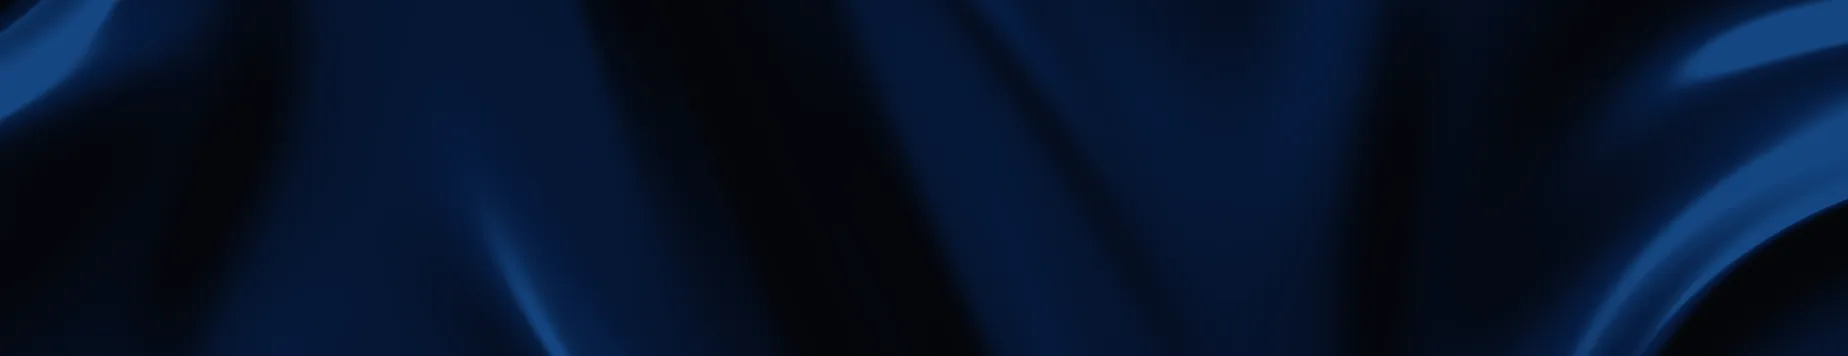
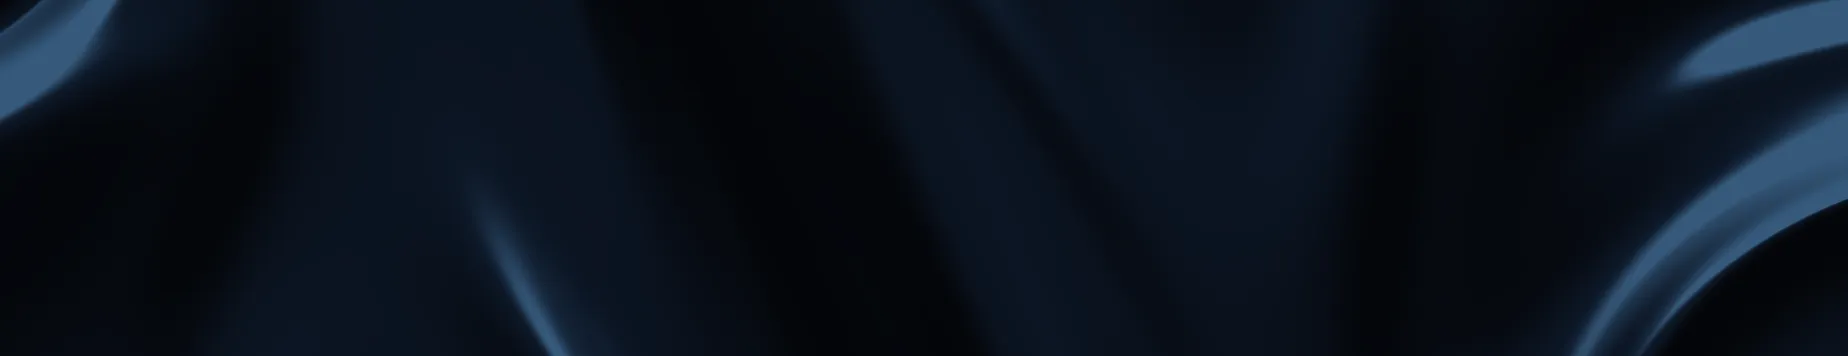
site: colours, buttons and app cards follow the 1.1.0 design
The silk background, its still images and every glow go from royal blue to the app's slate black with ice light. Primary buttons are the app's ice sheet. The signing window is drawn as Kyro's own (what Kyro read, amount in the coin's colour, Cancel and Sign), and the vault, Earn and asset cards use the app's surfaces, ice squares and Unbounded figures.

diff --git a/website/public/style.css b/website/public/style.css
@@ -50,7 +50,7 @@
   --line-3: rgba(150, 205, 255, .3);
   --grid: rgba(170, 210, 250, .05);
   --dot: rgba(170, 210, 250, .15);
-  --blue: 47, 107, 255;
+  --blue: 124, 196, 255;
   --sh-1: 0 1px 2px rgba(0, 0, 0, .35);
   --sh-2: 0 1px 2px rgba(0, 0, 0, .4), 0 6px 14px -8px rgba(0, 0, 0, .6);
   --sh-3: 0 2px 6px rgba(0, 0, 0, .4), 0 12px 24px -12px rgba(0, 0, 0, .8);
@@ -336,6 +336,7 @@ main .wrap > p:last-child:has(> .more) { text-align: center; }
 .dlg-actions { display: grid; grid-template-columns: 1fr 1fr; gap: 8px; margin-top: 4px; }
 .dlg-actions i { display: grid; place-items: center; height: 38px; border: 1px solid #282e36; border-radius: 9px; font-weight: 500; }
 .dlg-actions .on { background: #eef3f8; border-color: #eef3f8; color: #07080a; }
+
 .coin-card { position: relative; padding: 22px; max-width: 420px; width: 100%; font-size: 15px; }
 .coin-card .tok { width: 40px; height: 40px; }
 .coin-card .kw-coin .kw-demo { margin-left: auto; font: 400 10px var(--mono); }
@@ -609,8 +610,9 @@ h3 { font: 600 16.5px/1.35 var(--sans); color: var(--text); letter-spacing: -.01
 
 /* ---------- buttons */
 .btn { display: inline-flex; align-items: center; justify-content: center; gap: 8px; min-height: 40px; padding: 0 16px; border: 1px solid transparent; border-radius: var(--r-sm); font: 550 14.5px/1.2 var(--sans); cursor: pointer; white-space: nowrap; transition: background .15s, color .15s, border-color .15s, box-shadow .15s; }
-.btn-primary { background: #f4f7fa; color: #05070a; box-shadow: var(--sh-1), inset 0 -1px 0 rgba(0, 0, 0, .08); }
-.btn-primary:hover { background: #fff; color: #000; box-shadow: var(--sh-1), 0 0 0 3px rgba(124, 196, 255, .22); }
+/* The app's primary button: a sheet of ice, tinted like the mark's square. */
+.btn-primary { background: linear-gradient(180deg, #e6f3ff 0%, #c2e0fa 100%); color: #061423; box-shadow: inset 0 1px 0 rgba(255, 255, 255, .95), inset 0 -1px 0 rgba(53, 119, 180, .35), 0 10px 30px -12px rgba(124, 196, 255, .85); }
+.btn-primary:hover { background: linear-gradient(180deg, #f2f9ff 0%, #d2e9fc 100%); color: #061423; box-shadow: inset 0 1px 0 #fff, inset 0 -1px 0 rgba(53, 119, 180, .35), 0 12px 36px -10px rgba(124, 196, 255, 1); }
 .btn-ghost { background: rgba(10, 14, 20, .7); color: var(--text); border-color: var(--line-2); box-shadow: var(--sh-1); }
 .btn-ghost:hover { background: rgba(255, 255, 255, .07); color: #fff; border-color: var(--line-3); }
 .btn-sm { min-height: 32px; padding: 0 11px; font-size: 13.5px; }
@@ -1099,3 +1101,45 @@ body { position: relative; max-width: 100%; }
 .badge-dot { width: 6px; height: 6px; border-radius: 50%; background: var(--ice); box-shadow: 0 0 8px rgba(124, 196, 255, .9); }
 .badge-arrow { transition: transform .3s var(--out); }
 .badge:hover .badge-arrow { transform: translateX(3px); }
+
+/* ---------- 1.1.0 look: the app's own surfaces, ice-sheet buttons, coin colours, Unbounded figures */
+.kw-card, .dlg { border: 1px solid #1b1f25; border-radius: 18px; background: linear-gradient(180deg, #0e1114, #090a0c 70%); box-shadow: 0 30px 60px -30px rgba(0, 0, 0, .9), inset 0 1px 0 rgba(170, 220, 255, .06); }
+.kw-b.on, .dlg-actions .on, .kw-review, .kw-earn .kw-b { border: 0; background: linear-gradient(180deg, #e6f3ff 0%, #c2e0fa 100%); color: #061423; box-shadow: inset 0 1px 0 rgba(255, 255, 255, .95), inset 0 -1px 0 rgba(53, 119, 180, .35), 0 10px 26px -14px rgba(124, 196, 255, .85); font-weight: 600; }
+.kw-b { border-color: transparent; background: #13171b; }
+.kw-sq { flex-shrink: 0; width: .55em; height: .55em; border-radius: 1px; background: var(--ice); box-shadow: 0 0 .8em rgba(124, 196, 255, .7); }
+.kw-tabs b { box-shadow: none; display: inline-flex; align-items: center; gap: .45em; }
+.kw-tabs b::before { content: ''; width: .42em; height: .42em; border-radius: 1px; background: var(--ice); box-shadow: 0 0 .6em rgba(124, 196, 255, .7); }
+.kw-val b, .kw-apy b, .kw-total, .kw-field strong { font-family: var(--display); font-weight: 500; letter-spacing: -.03em; }
+.kw-apy b { color: #fff; font-size: 1.45em; }
+.kw-ratebar i { background: linear-gradient(90deg, rgba(124, 196, 255, .35), var(--ice)); }
+.kw-vault { padding-bottom: 12px; border-bottom: 1px solid #1b1f25; }
+.kw-vault .kw-sq { width: .7em; height: .7em; margin: 0 .25em; }
+.kw-vault em { display: inline-flex; align-items: center; gap: .45em; padding: 0; border: 0; color: var(--up); }
+.kw-vault em::before { content: ''; width: .5em; height: .5em; border-radius: 1px; background: var(--up); }
+.kw-card-narrow .kw-kv { padding-bottom: 12px; border-bottom: 1px solid #14171b; }
+.kw-card-narrow .kw-kv:last-child { padding-bottom: 0; border-bottom: 0; }
+.kw-bar { height: .18em; background: #1a1e24; }
+.kw-bar i { background: linear-gradient(90deg, rgba(124, 196, 255, .3), var(--ice)); box-shadow: 0 0 .8em rgba(124, 196, 255, .6); }
+.dot { border-radius: 1px; }
+/* The signing window, as Kyro draws it (confirm_window.rs). */
+.dlg { --c: #8fa4ff; max-width: 420px; }
+.dlg-coin { color: var(--c) !important; }
+.dlg-bar { position: relative; padding: 12px 16px; background: transparent; border-bottom: 1px solid #1b1f25; color: var(--text-2); font-size: 13px; }
+.dlg-x { margin-left: auto; color: var(--mute); }
+.dlg-body { gap: 0; padding: 18px 22px 22px; }
+.dlg .dlg-acct { margin: 0 0 14px; color: var(--mute); font-size: 12.5px; }
+.dlg .dlg-read { display: flex; align-items: center; gap: 9px; margin: 0 0 14px; color: var(--mute); font-size: 11.5px; letter-spacing: .14em; text-transform: uppercase; }
+.dlg-read i { width: 6px; height: 6px; border-radius: 1px; background: var(--ice); box-shadow: 0 0 8px rgba(124, 196, 255, .8); }
+.dlg .dlg-kind { margin: 0; color: var(--text); font-size: 14px; }
+.dlg-amount { display: flex; align-items: baseline; gap: .35em; margin: 2px 0 14px; color: var(--c, #fff); }
+.dlg-amount strong { font: 500 44px/1.1 var(--display); letter-spacing: -.035em; color: var(--c, #fff); text-shadow: 0 0 28px color-mix(in srgb, var(--c, #fff) 45%, transparent); }
+.dlg-amount span { font: 500 17px var(--display); }
+.dlg .dlg-k { margin: 0 0 6px; color: var(--mute); font-size: 12.5px; }
+.dlg .dlg-addr { margin: 0 0 16px; color: var(--mute); font-size: 13px; letter-spacing: .02em; word-spacing: .15em; white-space: normal; }
+.dlg-addr b { color: var(--text); font-weight: 600; }
+.dlg-rows { display: flex; flex-direction: column; border-top: 1px solid #1b1f25; }
+.dlg-rows .kw-kv { padding: 12px 0; border-bottom: 1px solid #1b1f25; font-size: 13.5px; }
+.dlg-rows .kw-kv span { color: var(--mute); }
+.dlg-actions { grid-template-columns: 1fr 1.3fr; gap: 10px; margin-top: 22px; }
+.dlg-actions i { height: 44px; border-radius: 12px; border-color: #222730; background: #101317; font-weight: 600; }
+@media (max-width: 480px) { .dlg-amount strong { font-size: 36px; } .dlg-body { padding: 16px 18px 18px; } }

diff --git a/website/public/index.html b/website/public/index.html
@@ -420,15 +420,21 @@
           <a class="more" href="/security/">Nothing is signed without you</a></div>
         </div>
         <div class="feature-visual" data-reveal>
-  <div class="dlg" role="img" aria-label="Kyro confirmation window: amount, recipient, network and network fee, with Cancel and Confirm buttons."><div aria-hidden="true">
-    <div class="dlg-bar"><img src="/img/kyro-mark-dark.svg" width="14" height="14" alt="">Kyro · Confirm transaction</div>
+  <div class="dlg" role="img" aria-label="Kyro signing window: what Kyro read in the transaction (amount, recipient, network fee), with Cancel and Sign buttons."><div aria-hidden="true">
+    <div class="dlg-bar"><img src="/img/kyro-mark-dark.svg" width="14" height="14" alt="">Kyro · Confirm the transaction<i class="dlg-x">✕</i></div>
     <div class="dlg-body">
-      <div class="dlg-amount"><img class="tok" src="/img/coins/eth.svg" width="32" height="32" alt="" decoding="async"><strong>1.2345 ETH</strong></div>
-      <div class="kw-kv"><span>To</span><b class="mono">0x1234…cdef</b></div>
-      <div class="kw-kv"><span>Network</span><b>Ethereum</b></div>
-      <div class="kw-kv"><span>Network fee</span><b>0.00123 ETH</b></div>
-      <p>Decoded by the Rust core. Nothing is sent until you confirm.</p>
-      <div class="dlg-actions"><i>Cancel</i><i class="on">Confirm</i></div>
+      <p class="dlg-acct">Signing account: “Main” · m/44'/60'/0'/0/0</p>
+      <p class="dlg-read"><i></i>What Kyro read in the transaction</p>
+      <p class="dlg-kind">Ethereum send</p>
+      <div class="dlg-amount"><strong>1.2345</strong><span>ETH</span></div>
+      <p class="dlg-k">To</p>
+      <p class="dlg-addr mono"><b>0x1234</b> 5678 9abc def0 1234 5678 9abc def0 <b>cdef</b></p>
+      <div class="dlg-rows">
+        <div class="kw-kv"><span>Amount</span><b class="dlg-coin">1.2345 ETH</b></div>
+        <div class="kw-kv"><span>Network</span><b>Ethereum</b></div>
+        <div class="kw-kv"><span>Network fee</span><b>0.00123 ETH</b></div>
+      </div>
+      <div class="dlg-actions"><i>Cancel</i><i class="on">Sign</i></div>
     </div>
   </div></div></div>
       </div>
@@ -450,7 +456,7 @@
             </div>
             
   <div class="kw-card kw-card-narrow" role="img" aria-label="Kyro vault panel: keys encrypted on this device, auto-lock timer, no unlimited approvals, Tor on."><div aria-hidden="true">
-    <div class="kw-vault"><svg class="ic" viewBox="0 0 24 24" fill="none" stroke="currentColor" stroke-width="1.7" stroke-linecap="round" stroke-linejoin="round" aria-hidden="true"><path d="M12 3l8 3v6c0 4.5-3.2 7.8-8 9-4.8-1.2-8-4.5-8-9V6l8-3z"/></svg><span><b>Vault</b><small>Keys encrypted on this device</small></span><em>Unlocked</em></div>
+    <div class="kw-vault"><i class="kw-sq"></i><span><b>Vault</b><small>Keys encrypted on this device</small></span><em>Unlocked</em></div>
     <div class="kw-kv"><span>Auto-lock</span><b>14:54</b></div>
     <div class="kw-bar"><i></i></div>
     <div class="kw-kv"><span>Hardware wallet</span><b class="ice">Add</b></div>

diff --git a/website/public/security/index.html b/website/public/security/index.html
@@ -139,15 +139,21 @@
         </div>
         <div class="feature-visual" data-reveal>
           
-  <div class="dlg" role="img" aria-label="Kyro confirmation window: amount, recipient, network and network fee, with Cancel and Confirm buttons."><div aria-hidden="true">
-    <div class="dlg-bar"><img src="/img/kyro-mark-dark.svg" width="14" height="14" alt="">Kyro · Confirm transaction</div>
+  <div class="dlg" role="img" aria-label="Kyro signing window: what Kyro read in the transaction (amount, recipient, network fee), with Cancel and Sign buttons."><div aria-hidden="true">
+    <div class="dlg-bar"><img src="/img/kyro-mark-dark.svg" width="14" height="14" alt="">Kyro · Confirm the transaction<i class="dlg-x">✕</i></div>
     <div class="dlg-body">
-      <div class="dlg-amount"><img class="tok" src="/img/coins/eth.svg" width="32" height="32" alt="" decoding="async"><strong>1.2345 ETH</strong></div>
-      <div class="kw-kv"><span>To</span><b class="mono">0x1234…cdef</b></div>
-      <div class="kw-kv"><span>Network</span><b>Ethereum</b></div>
-      <div class="kw-kv"><span>Network fee</span><b>0.00123 ETH</b></div>
-      <p>Decoded by the Rust core. Nothing is sent until you confirm.</p>
-      <div class="dlg-actions"><i>Cancel</i><i class="on">Confirm</i></div>
+      <p class="dlg-acct">Signing account: “Main” · m/44'/60'/0'/0/0</p>
+      <p class="dlg-read"><i></i>What Kyro read in the transaction</p>
+      <p class="dlg-kind">Ethereum send</p>
+      <div class="dlg-amount"><strong>1.2345</strong><span>ETH</span></div>
+      <p class="dlg-k">To</p>
+      <p class="dlg-addr mono"><b>0x1234</b> 5678 9abc def0 1234 5678 9abc def0 <b>cdef</b></p>
+      <div class="dlg-rows">
+        <div class="kw-kv"><span>Amount</span><b class="dlg-coin">1.2345 ETH</b></div>
+        <div class="kw-kv"><span>Network</span><b>Ethereum</b></div>
+        <div class="kw-kv"><span>Network fee</span><b>0.00123 ETH</b></div>
+      </div>
+      <div class="dlg-actions"><i>Cancel</i><i class="on">Sign</i></div>
     </div>
   </div></div>
         </div>
@@ -171,7 +177,7 @@
         <div class="feature-visual" data-reveal>
           
   <div class="kw-card kw-card-narrow" role="img" aria-label="Kyro vault panel: keys encrypted on this device, auto-lock timer, no unlimited approvals, Tor on."><div aria-hidden="true">
-    <div class="kw-vault"><svg class="ic" viewBox="0 0 24 24" fill="none" stroke="currentColor" stroke-width="1.7" stroke-linecap="round" stroke-linejoin="round" aria-hidden="true"><path d="M12 3l8 3v6c0 4.5-3.2 7.8-8 9-4.8-1.2-8-4.5-8-9V6l8-3z"/></svg><span><b>Vault</b><small>Keys encrypted on this device</small></span><em>Unlocked</em></div>
+    <div class="kw-vault"><i class="kw-sq"></i><span><b>Vault</b><small>Keys encrypted on this device</small></span><em>Unlocked</em></div>
     <div class="kw-kv"><span>Auto-lock</span><b>14:54</b></div>
     <div class="kw-bar"><i></i></div>
     <div class="kw-kv"><span>Hardware wallet</span><b class="ice">Add</b></div>

diff --git a/website/public/guides/how-to-spot-address-poisoning/index.html b/website/public/guides/how-to-spot-address-poisoning/index.html
@@ -103,15 +103,21 @@
       <h2>What Kyro does</h2>
       <ul class="checks"><li>A blocking red alert appears if a recipient shares the first 4 and last 4 characters with a known address without being identical.</li><li>Known addresses are your address book, your accounts and sends signed by this Kyro. The server’s history is never trusted.</li><li>Addresses are displayed in blocks, and anything outside the address book is marked “Unknown address”.</li><li>After you paste, Kyro watches the field for clipboard tampering.</li><li>The native confirmation window shows the recipient Rust decoded.</li></ul>
       
-  <div class="dlg" role="img" aria-label="Kyro confirmation window: amount, recipient, network and network fee, with Cancel and Confirm buttons."><div aria-hidden="true">
-    <div class="dlg-bar"><img src="/img/kyro-mark-dark.svg" width="14" height="14" alt="">Kyro · Confirm transaction</div>
+  <div class="dlg" role="img" aria-label="Kyro signing window: what Kyro read in the transaction (amount, recipient, network fee), with Cancel and Sign buttons."><div aria-hidden="true">
+    <div class="dlg-bar"><img src="/img/kyro-mark-dark.svg" width="14" height="14" alt="">Kyro · Confirm the transaction<i class="dlg-x">✕</i></div>
     <div class="dlg-body">
-      <div class="dlg-amount"><img class="tok" src="/img/coins/eth.svg" width="32" height="32" alt="" decoding="async"><strong>1.2345 ETH</strong></div>
-      <div class="kw-kv"><span>To</span><b class="mono">0x1234…cdef</b></div>
-      <div class="kw-kv"><span>Network</span><b>Ethereum</b></div>
-      <div class="kw-kv"><span>Network fee</span><b>0.00123 ETH</b></div>
-      <p>Decoded by the Rust core. Nothing is sent until you confirm.</p>
-      <div class="dlg-actions"><i>Cancel</i><i class="on">Confirm</i></div>
+      <p class="dlg-acct">Signing account: “Main” · m/44'/60'/0'/0/0</p>
+      <p class="dlg-read"><i></i>What Kyro read in the transaction</p>
+      <p class="dlg-kind">Ethereum send</p>
+      <div class="dlg-amount"><strong>1.2345</strong><span>ETH</span></div>
+      <p class="dlg-k">To</p>
+      <p class="dlg-addr mono"><b>0x1234</b> 5678 9abc def0 1234 5678 9abc def0 <b>cdef</b></p>
+      <div class="dlg-rows">
+        <div class="kw-kv"><span>Amount</span><b class="dlg-coin">1.2345 ETH</b></div>
+        <div class="kw-kv"><span>Network</span><b>Ethereum</b></div>
+        <div class="kw-kv"><span>Network fee</span><b>0.00123 ETH</b></div>
+      </div>
+      <div class="dlg-actions"><i>Cancel</i><i class="on">Sign</i></div>
     </div>
   </div></div>
       <h2>What it cannot catch</h2>

diff --git a/website/public/guides/stake-sol/index.html b/website/public/guides/stake-sol/index.html
@@ -102,15 +102,21 @@
       <h2>Stake</h2>
       <ol class="os-steps"><li>Open <b>Earn</b> and choose <b>Solana</b>.</li><li>Choose <b>Stake SOL</b>. Kyro creates a stake account in your name, and only you can manage or withdraw it.</li><li>Pick a validator. Names are declared by the validators themselves and not verified, so look at commission and status too.</li><li>Enter the amount and review.</li><li>Confirm with your password in the system window.</li></ol>
       
-  <div class="dlg" role="img" aria-label="Kyro confirmation window: amount, recipient, network and network fee, with Cancel and Confirm buttons."><div aria-hidden="true">
-    <div class="dlg-bar"><img src="/img/kyro-mark-dark.svg" width="14" height="14" alt="">Kyro · Confirm transaction</div>
+  <div class="dlg" role="img" aria-label="Kyro signing window: what Kyro read in the transaction (amount, recipient, network fee), with Cancel and Sign buttons."><div aria-hidden="true">
+    <div class="dlg-bar"><img src="/img/kyro-mark-dark.svg" width="14" height="14" alt="">Kyro · Confirm the transaction<i class="dlg-x">✕</i></div>
     <div class="dlg-body">
-      <div class="dlg-amount"><img class="tok" src="/img/coins/eth.svg" width="32" height="32" alt="" decoding="async"><strong>1.2345 ETH</strong></div>
-      <div class="kw-kv"><span>To</span><b class="mono">0x1234…cdef</b></div>
-      <div class="kw-kv"><span>Network</span><b>Ethereum</b></div>
-      <div class="kw-kv"><span>Network fee</span><b>0.00123 ETH</b></div>
-      <p>Decoded by the Rust core. Nothing is sent until you confirm.</p>
-      <div class="dlg-actions"><i>Cancel</i><i class="on">Confirm</i></div>
+      <p class="dlg-acct">Signing account: “Main” · m/44'/60'/0'/0/0</p>
+      <p class="dlg-read"><i></i>What Kyro read in the transaction</p>
+      <p class="dlg-kind">Ethereum send</p>
+      <div class="dlg-amount"><strong>1.2345</strong><span>ETH</span></div>
+      <p class="dlg-k">To</p>
+      <p class="dlg-addr mono"><b>0x1234</b> 5678 9abc def0 1234 5678 9abc def0 <b>cdef</b></p>
+      <div class="dlg-rows">
+        <div class="kw-kv"><span>Amount</span><b class="dlg-coin">1.2345 ETH</b></div>
+        <div class="kw-kv"><span>Network</span><b>Ethereum</b></div>
+        <div class="kw-kv"><span>Network fee</span><b>0.00123 ETH</b></div>
+      </div>
+      <div class="dlg-actions"><i>Cancel</i><i class="on">Sign</i></div>
     </div>
   </div></div>
       <p>A commission above 10%, or a delinquent validator that has stopped voting, gets a second, reinforced confirmation.</p>

diff --git a/website/public/hardware-wallets/index.html b/website/public/hardware-wallets/index.html
@@ -169,15 +169,21 @@
           <ul class="checks"><li>Before signing, Kyro re-reads the device’s keys and compares them with the registered account.</li><li>Receive addresses can be shown on the device, and any difference is a blocking error.</li><li>After signing, Kyro verifies the signature against the expected key before broadcasting.</li><li>Unplugging or a timeout abandons the operation cleanly. Nothing is left half-done.</li></ul></div>
         </div>
         <div class="feature-visual" data-reveal>
-  <div class="dlg" role="img" aria-label="Kyro confirmation window: amount, recipient, network and network fee, with Cancel and Confirm buttons."><div aria-hidden="true">
-    <div class="dlg-bar"><img src="/img/kyro-mark-dark.svg" width="14" height="14" alt="">Kyro · Confirm transaction</div>
+  <div class="dlg" role="img" aria-label="Kyro signing window: what Kyro read in the transaction (amount, recipient, network fee), with Cancel and Sign buttons."><div aria-hidden="true">
+    <div class="dlg-bar"><img src="/img/kyro-mark-dark.svg" width="14" height="14" alt="">Kyro · Confirm the transaction<i class="dlg-x">✕</i></div>
     <div class="dlg-body">
-      <div class="dlg-amount"><img class="tok" src="/img/coins/eth.svg" width="32" height="32" alt="" decoding="async"><strong>1.2345 ETH</strong></div>
-      <div class="kw-kv"><span>To</span><b class="mono">0x1234…cdef</b></div>
-      <div class="kw-kv"><span>Network</span><b>Ethereum</b></div>
-      <div class="kw-kv"><span>Network fee</span><b>0.00123 ETH</b></div>
-      <p>Decoded by the Rust core. Nothing is sent until you confirm.</p>
-      <div class="dlg-actions"><i>Cancel</i><i class="on">Confirm</i></div>
+      <p class="dlg-acct">Signing account: “Main” · m/44'/60'/0'/0/0</p>
+      <p class="dlg-read"><i></i>What Kyro read in the transaction</p>
+      <p class="dlg-kind">Ethereum send</p>
+      <div class="dlg-amount"><strong>1.2345</strong><span>ETH</span></div>
+      <p class="dlg-k">To</p>
+      <p class="dlg-addr mono"><b>0x1234</b> 5678 9abc def0 1234 5678 9abc def0 <b>cdef</b></p>
+      <div class="dlg-rows">
+        <div class="kw-kv"><span>Amount</span><b class="dlg-coin">1.2345 ETH</b></div>
+        <div class="kw-kv"><span>Network</span><b>Ethereum</b></div>
+        <div class="kw-kv"><span>Network fee</span><b>0.00123 ETH</b></div>
+      </div>
+      <div class="dlg-actions"><i>Cancel</i><i class="on">Sign</i></div>
     </div>
   </div></div></div>
       </div>

diff --git a/website/public/guides/connect-a-ledger/index.html b/website/public/guides/connect-a-ledger/index.html
@@ -107,15 +107,21 @@
       <h2>Sign</h2>
       <ol class="os-steps"><li>Start a send as usual.</li><li>Read the decoded transaction in Kyro’s system window.</li><li>Read it again on the Ledger and approve there.</li><li>Kyro verifies the signature before it broadcasts.</li></ol>
       
-  <div class="dlg" role="img" aria-label="Kyro confirmation window: amount, recipient, network and network fee, with Cancel and Confirm buttons."><div aria-hidden="true">
-    <div class="dlg-bar"><img src="/img/kyro-mark-dark.svg" width="14" height="14" alt="">Kyro · Confirm transaction</div>
+  <div class="dlg" role="img" aria-label="Kyro signing window: what Kyro read in the transaction (amount, recipient, network fee), with Cancel and Sign buttons."><div aria-hidden="true">
+    <div class="dlg-bar"><img src="/img/kyro-mark-dark.svg" width="14" height="14" alt="">Kyro · Confirm the transaction<i class="dlg-x">✕</i></div>
     <div class="dlg-body">
-      <div class="dlg-amount"><img class="tok" src="/img/coins/eth.svg" width="32" height="32" alt="" decoding="async"><strong>1.2345 ETH</strong></div>
-      <div class="kw-kv"><span>To</span><b class="mono">0x1234…cdef</b></div>
-      <div class="kw-kv"><span>Network</span><b>Ethereum</b></div>
-      <div class="kw-kv"><span>Network fee</span><b>0.00123 ETH</b></div>
-      <p>Decoded by the Rust core. Nothing is sent until you confirm.</p>
-      <div class="dlg-actions"><i>Cancel</i><i class="on">Confirm</i></div>
+      <p class="dlg-acct">Signing account: “Main” · m/44'/60'/0'/0/0</p>
+      <p class="dlg-read"><i></i>What Kyro read in the transaction</p>
+      <p class="dlg-kind">Ethereum send</p>
+      <div class="dlg-amount"><strong>1.2345</strong><span>ETH</span></div>
+      <p class="dlg-k">To</p>
+      <p class="dlg-addr mono"><b>0x1234</b> 5678 9abc def0 1234 5678 9abc def0 <b>cdef</b></p>
+      <div class="dlg-rows">
+        <div class="kw-kv"><span>Amount</span><b class="dlg-coin">1.2345 ETH</b></div>
+        <div class="kw-kv"><span>Network</span><b>Ethereum</b></div>
+        <div class="kw-kv"><span>Network fee</span><b>0.00123 ETH</b></div>
+      </div>
+      <div class="dlg-actions"><i>Cancel</i><i class="on">Sign</i></div>
     </div>
   </div></div>
       <h2>Blind signing</h2>

diff --git a/website/public/earn/index.html b/website/public/earn/index.html
@@ -212,15 +212,21 @@
           <p><a href="/guides/stake-sol/">Step by step: stake SOL</a></p></div>
         </div>
         <div class="feature-visual" data-reveal>
-  <div class="dlg" role="img" aria-label="Kyro confirmation window: amount, recipient, network and network fee, with Cancel and Confirm buttons."><div aria-hidden="true">
-    <div class="dlg-bar"><img src="/img/kyro-mark-dark.svg" width="14" height="14" alt="">Kyro · Confirm transaction</div>
+  <div class="dlg" role="img" aria-label="Kyro signing window: what Kyro read in the transaction (amount, recipient, network fee), with Cancel and Sign buttons."><div aria-hidden="true">
+    <div class="dlg-bar"><img src="/img/kyro-mark-dark.svg" width="14" height="14" alt="">Kyro · Confirm the transaction<i class="dlg-x">✕</i></div>
     <div class="dlg-body">
-      <div class="dlg-amount"><img class="tok" src="/img/coins/eth.svg" width="32" height="32" alt="" decoding="async"><strong>1.2345 ETH</strong></div>
-      <div class="kw-kv"><span>To</span><b class="mono">0x1234…cdef</b></div>
-      <div class="kw-kv"><span>Network</span><b>Ethereum</b></div>
-      <div class="kw-kv"><span>Network fee</span><b>0.00123 ETH</b></div>
-      <p>Decoded by the Rust core. Nothing is sent until you confirm.</p>
-      <div class="dlg-actions"><i>Cancel</i><i class="on">Confirm</i></div>
+      <p class="dlg-acct">Signing account: “Main” · m/44'/60'/0'/0/0</p>
+      <p class="dlg-read"><i></i>What Kyro read in the transaction</p>
+      <p class="dlg-kind">Ethereum send</p>
+      <div class="dlg-amount"><strong>1.2345</strong><span>ETH</span></div>
+      <p class="dlg-k">To</p>
+      <p class="dlg-addr mono"><b>0x1234</b> 5678 9abc def0 1234 5678 9abc def0 <b>cdef</b></p>
+      <div class="dlg-rows">
+        <div class="kw-kv"><span>Amount</span><b class="dlg-coin">1.2345 ETH</b></div>
+        <div class="kw-kv"><span>Network</span><b>Ethereum</b></div>
+        <div class="kw-kv"><span>Network fee</span><b>0.00123 ETH</b></div>
+      </div>
+      <div class="dlg-actions"><i>Cancel</i><i class="on">Sign</i></div>
     </div>
   </div></div></div>
       </div>

diff --git a/website/public/swap/index.html b/website/public/swap/index.html
@@ -155,15 +155,21 @@
           <p><a href="/fees/">Fee table and calculator</a></p></div>
         </div>
         <div class="feature-visual" data-reveal>
-  <div class="dlg" role="img" aria-label="Kyro confirmation window: amount, recipient, network and network fee, with Cancel and Confirm buttons."><div aria-hidden="true">
-    <div class="dlg-bar"><img src="/img/kyro-mark-dark.svg" width="14" height="14" alt="">Kyro · Confirm transaction</div>
+  <div class="dlg" role="img" aria-label="Kyro signing window: what Kyro read in the transaction (amount, recipient, network fee), with Cancel and Sign buttons."><div aria-hidden="true">
+    <div class="dlg-bar"><img src="/img/kyro-mark-dark.svg" width="14" height="14" alt="">Kyro · Confirm the transaction<i class="dlg-x">✕</i></div>
     <div class="dlg-body">
-      <div class="dlg-amount"><img class="tok" src="/img/coins/eth.svg" width="32" height="32" alt="" decoding="async"><strong>1.2345 ETH</strong></div>
-      <div class="kw-kv"><span>To</span><b class="mono">0x1234…cdef</b></div>
-      <div class="kw-kv"><span>Network</span><b>Ethereum</b></div>
-      <div class="kw-kv"><span>Network fee</span><b>0.00123 ETH</b></div>
-      <p>Decoded by the Rust core. Nothing is sent until you confirm.</p>
-      <div class="dlg-actions"><i>Cancel</i><i class="on">Confirm</i></div>
+      <p class="dlg-acct">Signing account: “Main” · m/44'/60'/0'/0/0</p>
+      <p class="dlg-read"><i></i>What Kyro read in the transaction</p>
+      <p class="dlg-kind">Ethereum send</p>
+      <div class="dlg-amount"><strong>1.2345</strong><span>ETH</span></div>
+      <p class="dlg-k">To</p>
+      <p class="dlg-addr mono"><b>0x1234</b> 5678 9abc def0 1234 5678 9abc def0 <b>cdef</b></p>
+      <div class="dlg-rows">
+        <div class="kw-kv"><span>Amount</span><b class="dlg-coin">1.2345 ETH</b></div>
+        <div class="kw-kv"><span>Network</span><b>Ethereum</b></div>
+        <div class="kw-kv"><span>Network fee</span><b>0.00123 ETH</b></div>
+      </div>
+      <div class="dlg-actions"><i>Cancel</i><i class="on">Sign</i></div>
     </div>
   </div></div></div>
       </div>

diff --git a/website/public/features/index.html b/website/public/features/index.html
@@ -304,15 +304,21 @@
           </ul></div>
         </div>
         <div class="feature-visual">
-  <div class="dlg" role="img" aria-label="Kyro confirmation window: amount, recipient, network and network fee, with Cancel and Confirm buttons."><div aria-hidden="true">
-    <div class="dlg-bar"><img src="/img/kyro-mark-dark.svg" width="14" height="14" alt="">Kyro · Confirm transaction</div>
+  <div class="dlg" role="img" aria-label="Kyro signing window: what Kyro read in the transaction (amount, recipient, network fee), with Cancel and Sign buttons."><div aria-hidden="true">
+    <div class="dlg-bar"><img src="/img/kyro-mark-dark.svg" width="14" height="14" alt="">Kyro · Confirm the transaction<i class="dlg-x">✕</i></div>
     <div class="dlg-body">
-      <div class="dlg-amount"><img class="tok" src="/img/coins/eth.svg" width="32" height="32" alt="" decoding="async"><strong>1.2345 ETH</strong></div>
-      <div class="kw-kv"><span>To</span><b class="mono">0x1234…cdef</b></div>
-      <div class="kw-kv"><span>Network</span><b>Ethereum</b></div>
-      <div class="kw-kv"><span>Network fee</span><b>0.00123 ETH</b></div>
-      <p>Decoded by the Rust core. Nothing is sent until you confirm.</p>
-      <div class="dlg-actions"><i>Cancel</i><i class="on">Confirm</i></div>
+      <p class="dlg-acct">Signing account: “Main” · m/44'/60'/0'/0/0</p>
+      <p class="dlg-read"><i></i>What Kyro read in the transaction</p>
+      <p class="dlg-kind">Ethereum send</p>
+      <div class="dlg-amount"><strong>1.2345</strong><span>ETH</span></div>
+      <p class="dlg-k">To</p>
+      <p class="dlg-addr mono"><b>0x1234</b> 5678 9abc def0 1234 5678 9abc def0 <b>cdef</b></p>
+      <div class="dlg-rows">
+        <div class="kw-kv"><span>Amount</span><b class="dlg-coin">1.2345 ETH</b></div>
+        <div class="kw-kv"><span>Network</span><b>Ethereum</b></div>
+        <div class="kw-kv"><span>Network fee</span><b>0.00123 ETH</b></div>
+      </div>
+      <div class="dlg-actions"><i>Cancel</i><i class="on">Sign</i></div>
     </div>
   </div></div></div>
       </div>

diff --git a/website/public/guides/first-steps-with-kyro/index.html b/website/public/guides/first-steps-with-kyro/index.html
@@ -134,7 +134,7 @@
       <p>Portfolio shows your total and your assets. Swap, Earn and History sit in the side rail. Ctrl K searches assets and addresses. The vault panel shows Tor, auto-lock and whether any unlimited approval is active.</p>
       
   <div class="kw-card kw-card-narrow" role="img" aria-label="Kyro vault panel: keys encrypted on this device, auto-lock timer, no unlimited approvals, Tor on."><div aria-hidden="true">
-    <div class="kw-vault"><svg class="ic" viewBox="0 0 24 24" fill="none" stroke="currentColor" stroke-width="1.7" stroke-linecap="round" stroke-linejoin="round" aria-hidden="true"><path d="M12 3l8 3v6c0 4.5-3.2 7.8-8 9-4.8-1.2-8-4.5-8-9V6l8-3z"/></svg><span><b>Vault</b><small>Keys encrypted on this device</small></span><em>Unlocked</em></div>
+    <div class="kw-vault"><i class="kw-sq"></i><span><b>Vault</b><small>Keys encrypted on this device</small></span><em>Unlocked</em></div>
     <div class="kw-kv"><span>Auto-lock</span><b>14:54</b></div>
     <div class="kw-bar"><i></i></div>
     <div class="kw-kv"><span>Hardware wallet</span><b class="ice">Add</b></div>

diff --git a/website/public/wallets/linux/index.html b/website/public/wallets/linux/index.html
@@ -95,7 +95,7 @@
           </div>
           
   <div class="kw-card kw-card-narrow" role="img" aria-label="Kyro vault panel: keys encrypted on this device, auto-lock timer, no unlimited approvals, Tor on."><div aria-hidden="true">
-    <div class="kw-vault"><svg class="ic" viewBox="0 0 24 24" fill="none" stroke="currentColor" stroke-width="1.7" stroke-linecap="round" stroke-linejoin="round" aria-hidden="true"><path d="M12 3l8 3v6c0 4.5-3.2 7.8-8 9-4.8-1.2-8-4.5-8-9V6l8-3z"/></svg><span><b>Vault</b><small>Keys encrypted on this device</small></span><em>Unlocked</em></div>
+    <div class="kw-vault"><i class="kw-sq"></i><span><b>Vault</b><small>Keys encrypted on this device</small></span><em>Unlocked</em></div>
     <div class="kw-kv"><span>Auto-lock</span><b>14:54</b></div>
     <div class="kw-bar"><i></i></div>
     <div class="kw-kv"><span>Hardware wallet</span><b class="ice">Add</b></div>
